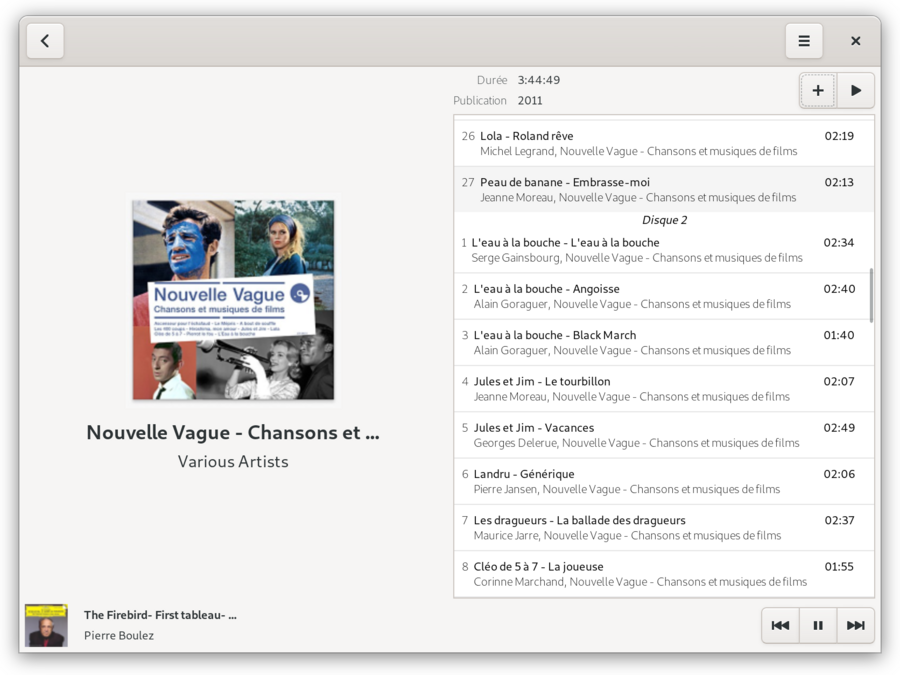
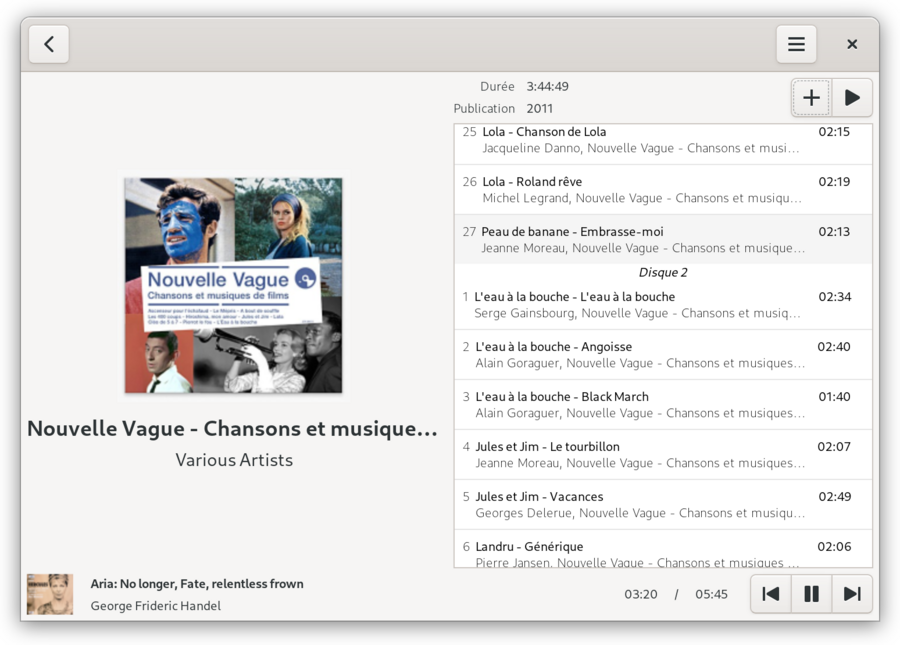
Update screenshots

Changed region(s): [[0.0, 0.031, 0.9956, 0.9922], [0.0311, 0.2481, 0.4667, 0.7442]]

diff --git a/README.rst b/README.rst
@@ -37,6 +37,13 @@ and small single-board devices with small touchscreen in mind.
 
    Playlists view
 
+.. figure:: docs/screenshot-small-screen.png
+   :alt: Albums view on small screen
+   :align: center
+   :width: 400
+
+   Albums view on small screen (800x480) with dark theme
+
 Features 🥳
 ===========
 
